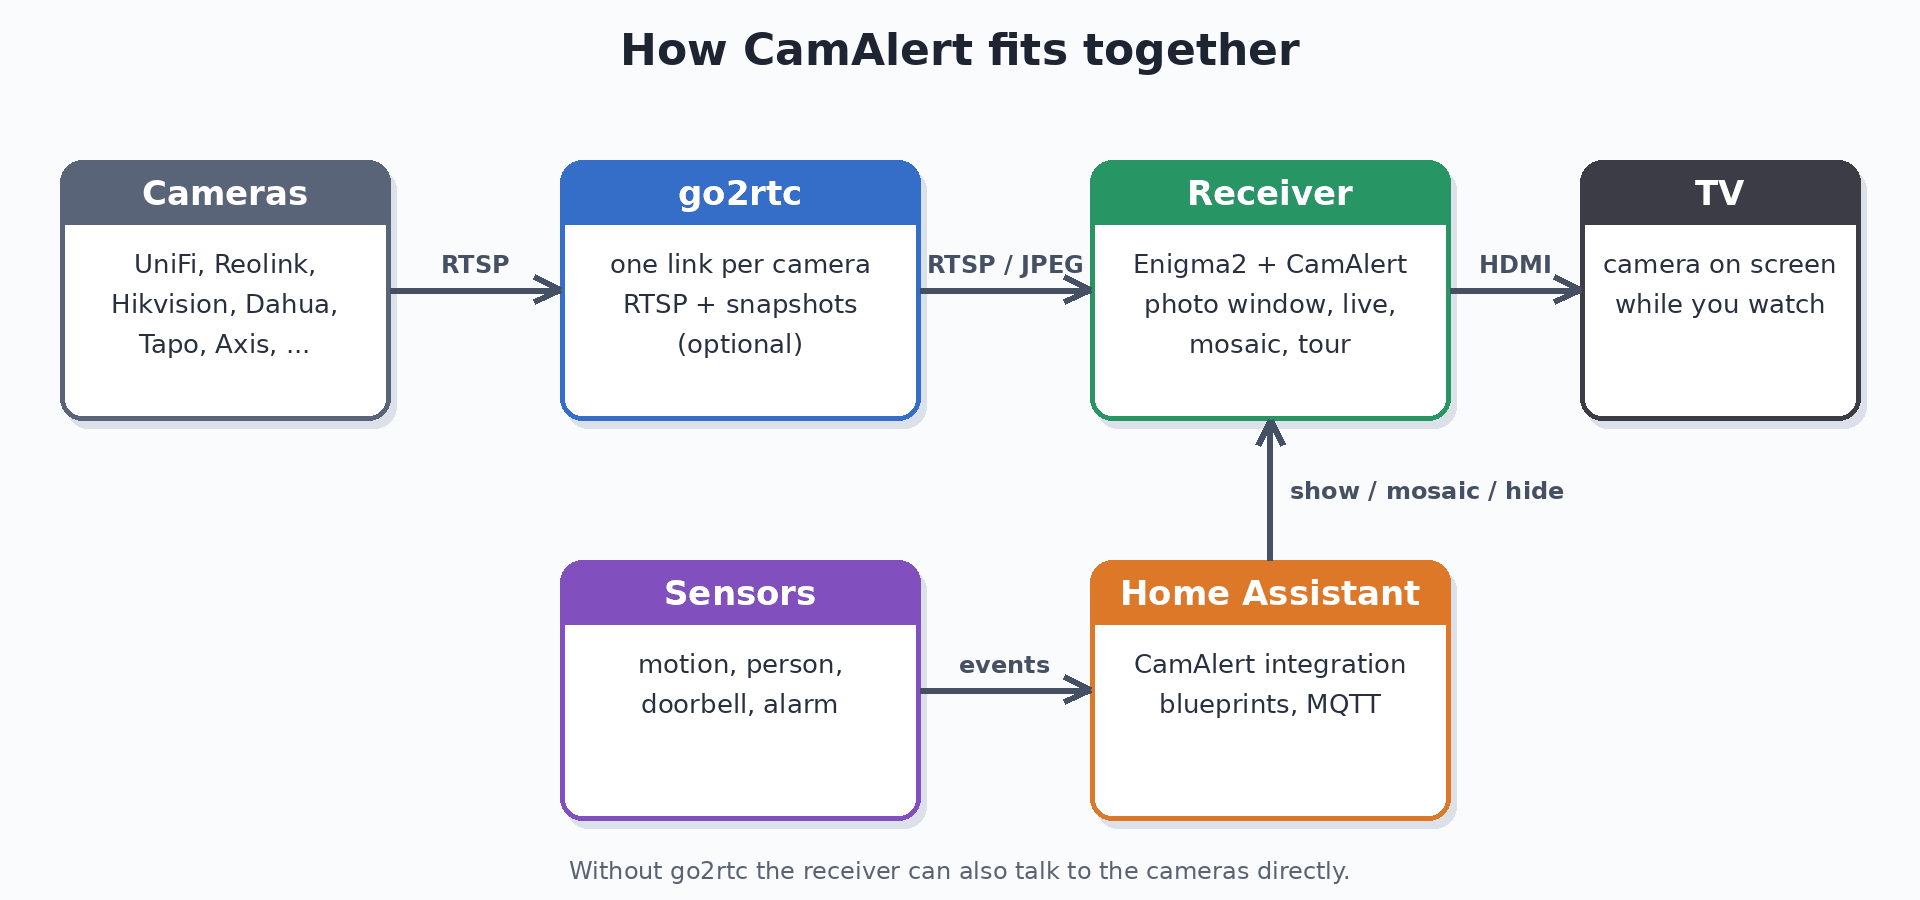
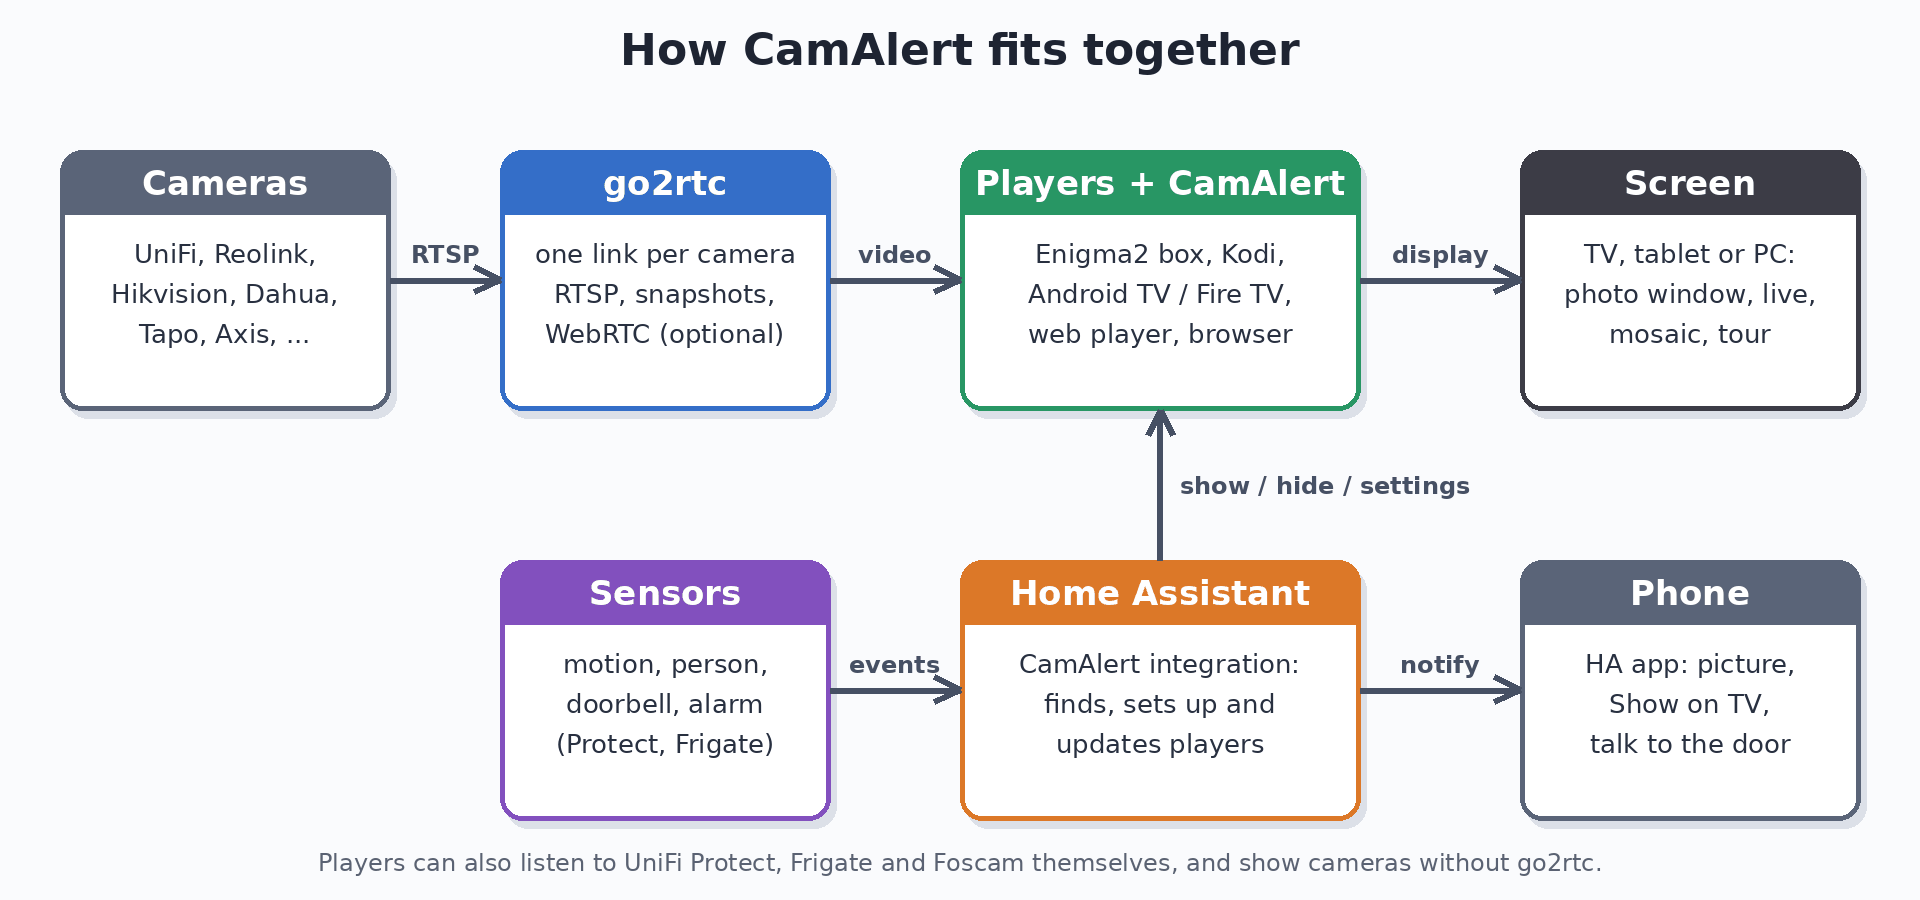
README: new "How it fits together" picture (all players, Home Assistant, phone)
The picture showed only the Enigma2 receiver and a TV. Now: Enigma2 box, Kodi, Android TV / Fire TV,
web player and browser; TV, tablet or PC; Home Assistant finds, sets up and updates players; phone
notifications; players also listen to Protect, Frigate and Foscam themselves.

diff --git a/tools/readme_images.py b/tools/readme_images.py
@@ -290,21 +290,26 @@ def flow():
             d.text((mx, my - 26 if above else my + 26), label, font=font(24, True), fill=colour, anchor="mm")
 
     blue, green, orange, purple = (52, 110, 200), (40, 150, 100), (220, 120, 40), (130, 80, 190)
+    grey, dark = (90, 100, 120), (60, 60, 70)
     d.text((W / 2, 50), "How CamAlert fits together", font=font(44, True), fill=(30, 36, 50), anchor="mm")
-    box(60, 160, 330, 260, "Cameras", ["UniFi, Reolink,", "Hikvision, Dahua,", "Tapo, Axis, ..."], (90, 100, 120))
-    box(560, 160, 360, 260, "go2rtc", ["one link per camera", "RTSP + snapshots", "(optional)"], blue)
-    box(1090, 160, 360, 260, "Receiver", ["Enigma2 + CamAlert", "photo window, live,", "mosaic, tour"], green)
-    box(1580, 160, 280, 260, "TV", ["camera on screen", "while you watch"], (60, 60, 70))
-    box(1090, 560, 360, 260, "Home Assistant", ["CamAlert integration", "blueprints, MQTT"], orange)
-    box(560, 560, 360, 260, "Sensors", ["motion, person,", "doorbell, alarm"], purple)
-    arrow((390, 290), (560, 290), "RTSP")
-    arrow((920, 290), (1090, 290), "RTSP / JPEG")
-    arrow((1450, 290), (1580, 290), "HDMI")
-    arrow((920, 690), (1090, 690), "events")
-    arrow((1270, 560), (1270, 420), "")
-    d.text((1290, 490), "show / mosaic / hide", font=font(24, True), fill=(70, 80, 100), anchor="lm")
-    d.text((W / 2, 870), "Without go2rtc the receiver can also talk to the cameras directly.", font=font(24),
-           fill=(90, 98, 115), anchor="mm")
+    # top row: the picture
+    box(60, 150, 330, 260, "Cameras", ["UniFi, Reolink,", "Hikvision, Dahua,", "Tapo, Axis, ..."], grey)
+    box(500, 150, 330, 260, "go2rtc", ["one link per camera", "RTSP, snapshots,", "WebRTC (optional)"], blue)
+    box(960, 150, 400, 260, "Players + CamAlert", ["Enigma2 box, Kodi,", "Android TV / Fire TV,", "web player, browser"], green)
+    box(1520, 150, 340, 260, "Screen", ["TV, tablet or PC:", "photo window, live,", "mosaic, tour"], dark)
+    # bottom row: what tells the players to show something
+    box(500, 560, 330, 260, "Sensors", ["motion, person,", "doorbell, alarm", "(Protect, Frigate)"], purple)
+    box(960, 560, 400, 260, "Home Assistant", ["CamAlert integration:", "finds, sets up and", "updates players"], orange)
+    box(1520, 560, 340, 260, "Phone", ["HA app: picture,", "Show on TV,", "talk to the door"], grey)
+    arrow((390, 280), (500, 280), "RTSP")
+    arrow((830, 280), (960, 280), "video")
+    arrow((1360, 280), (1520, 280), "display")
+    arrow((830, 690), (960, 690), "events")
+    arrow((1360, 690), (1520, 690), "notify")
+    arrow((1160, 560), (1160, 410), "")
+    d.text((1180, 485), "show / hide / settings", font=font(24, True), fill=(70, 80, 100), anchor="lm")
+    d.text((W / 2, 862), "Players can also listen to UniFi Protect, Frigate and Foscam themselves, "
+           "and show cameras without go2rtc.", font=font(24), fill=(90, 98, 115), anchor="mm")
     return img
 
 

diff --git a/README.md b/README.md
@@ -35,7 +35,7 @@ server. It can also [connect to the cameras directly](docs/user/without-go2rtc.m
 
 ## How it fits together
 
-![Cameras → go2rtc → player with CamAlert → TV; Home Assistant tells the player what to show](docs/images/flow.png)
+![Cameras → go2rtc → players with CamAlert (Enigma2, Kodi, Android TV, web player) → TV, tablet or PC; Home Assistant tells the players what to show and notifies phones](docs/images/flow.png)
 
 ## Features
 
